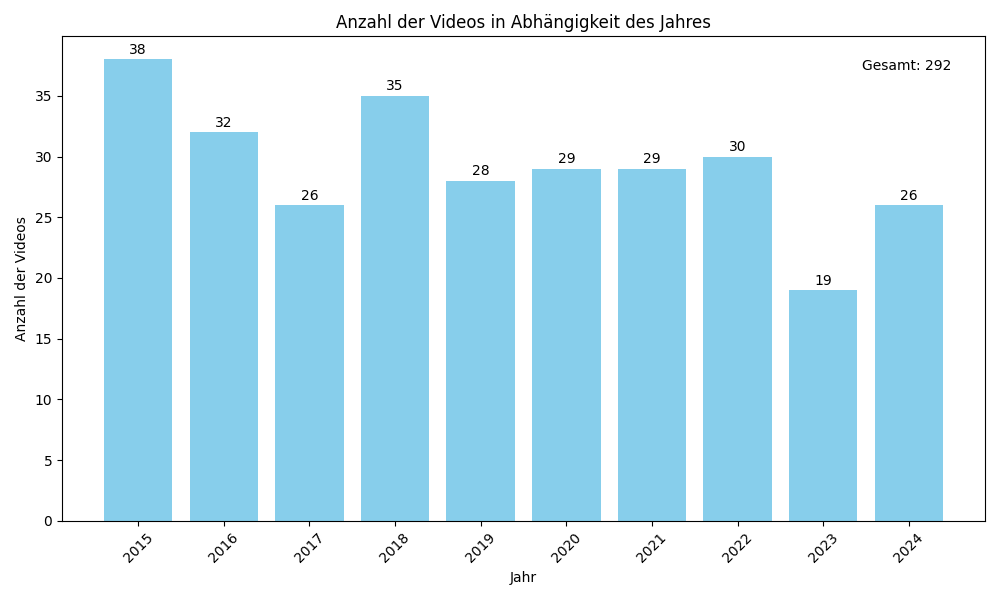
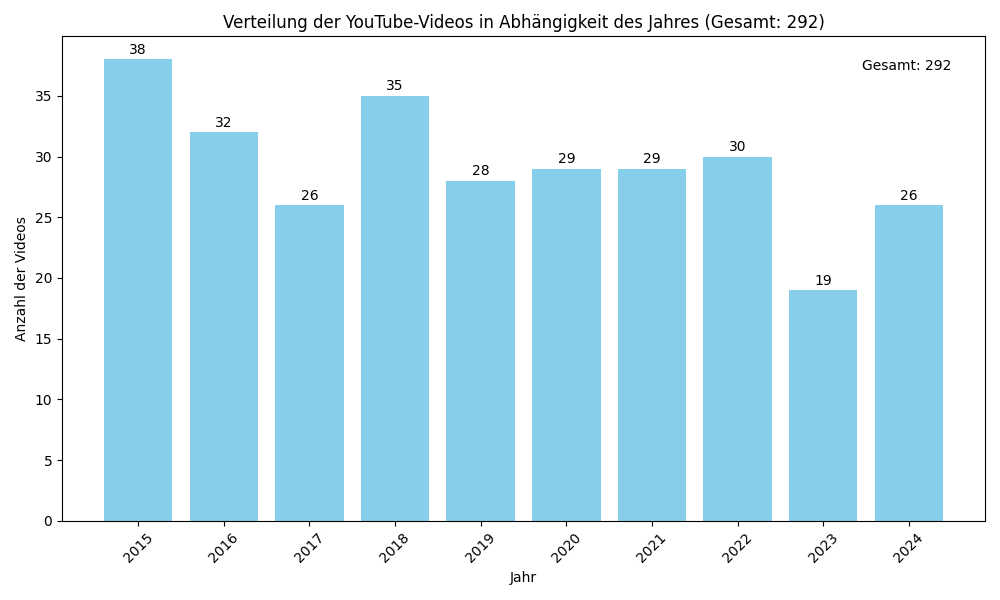
workspace: youtube-finder: Update video per year visualization

Changed region(s): [[0.217, 0.03, 0.837, 0.06]]

diff --git a/workspace/youtube-finder/diagramm.py b/workspace/youtube-finder/diagramm.py
@@ -24,7 +24,7 @@ plt.figure(figsize=(10, 6))
 plt.bar(jahre, anzahlen, color='skyblue')
 plt.xlabel('Jahr')
 plt.ylabel('Anzahl der Videos')
-plt.title('Anzahl der Videos in Abhängigkeit des Jahres')
+plt.title(f'Verteilung der YouTube-Videos in Abhängigkeit des Jahres (Gesamt: {gesamt_anzahl})')
 plt.xticks(rotation=45)
 
 for i, anzahl in enumerate(anzahlen):
